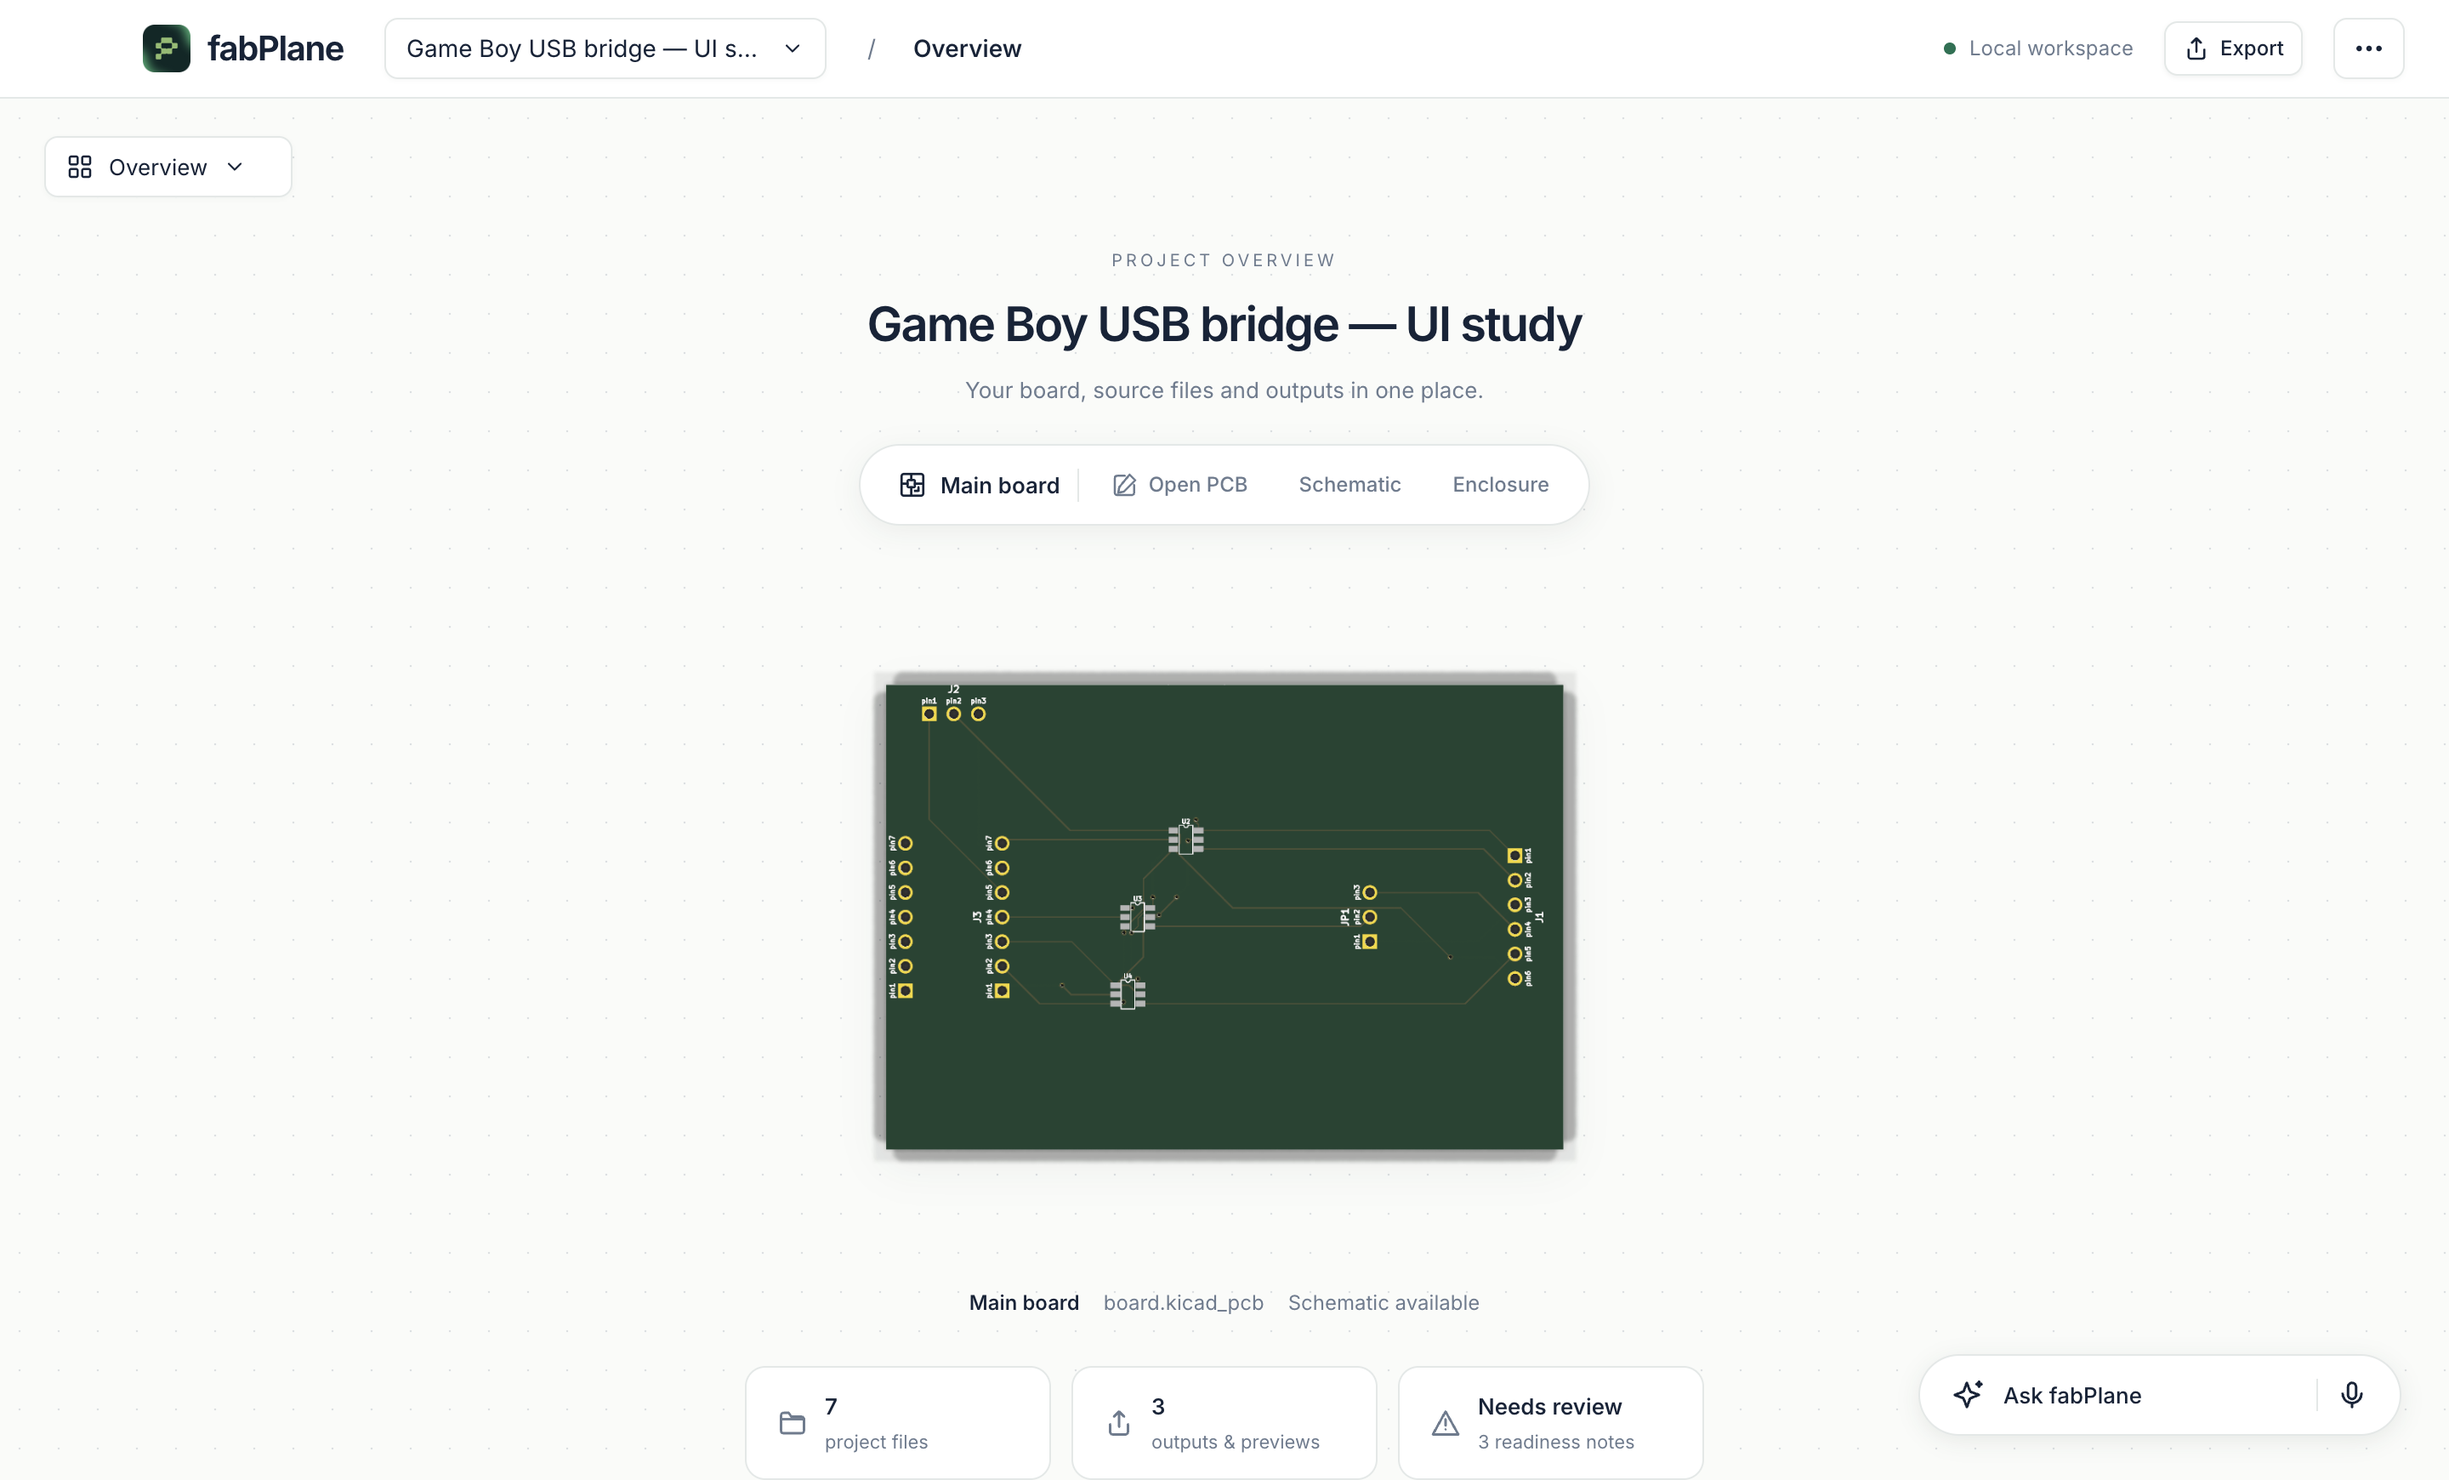
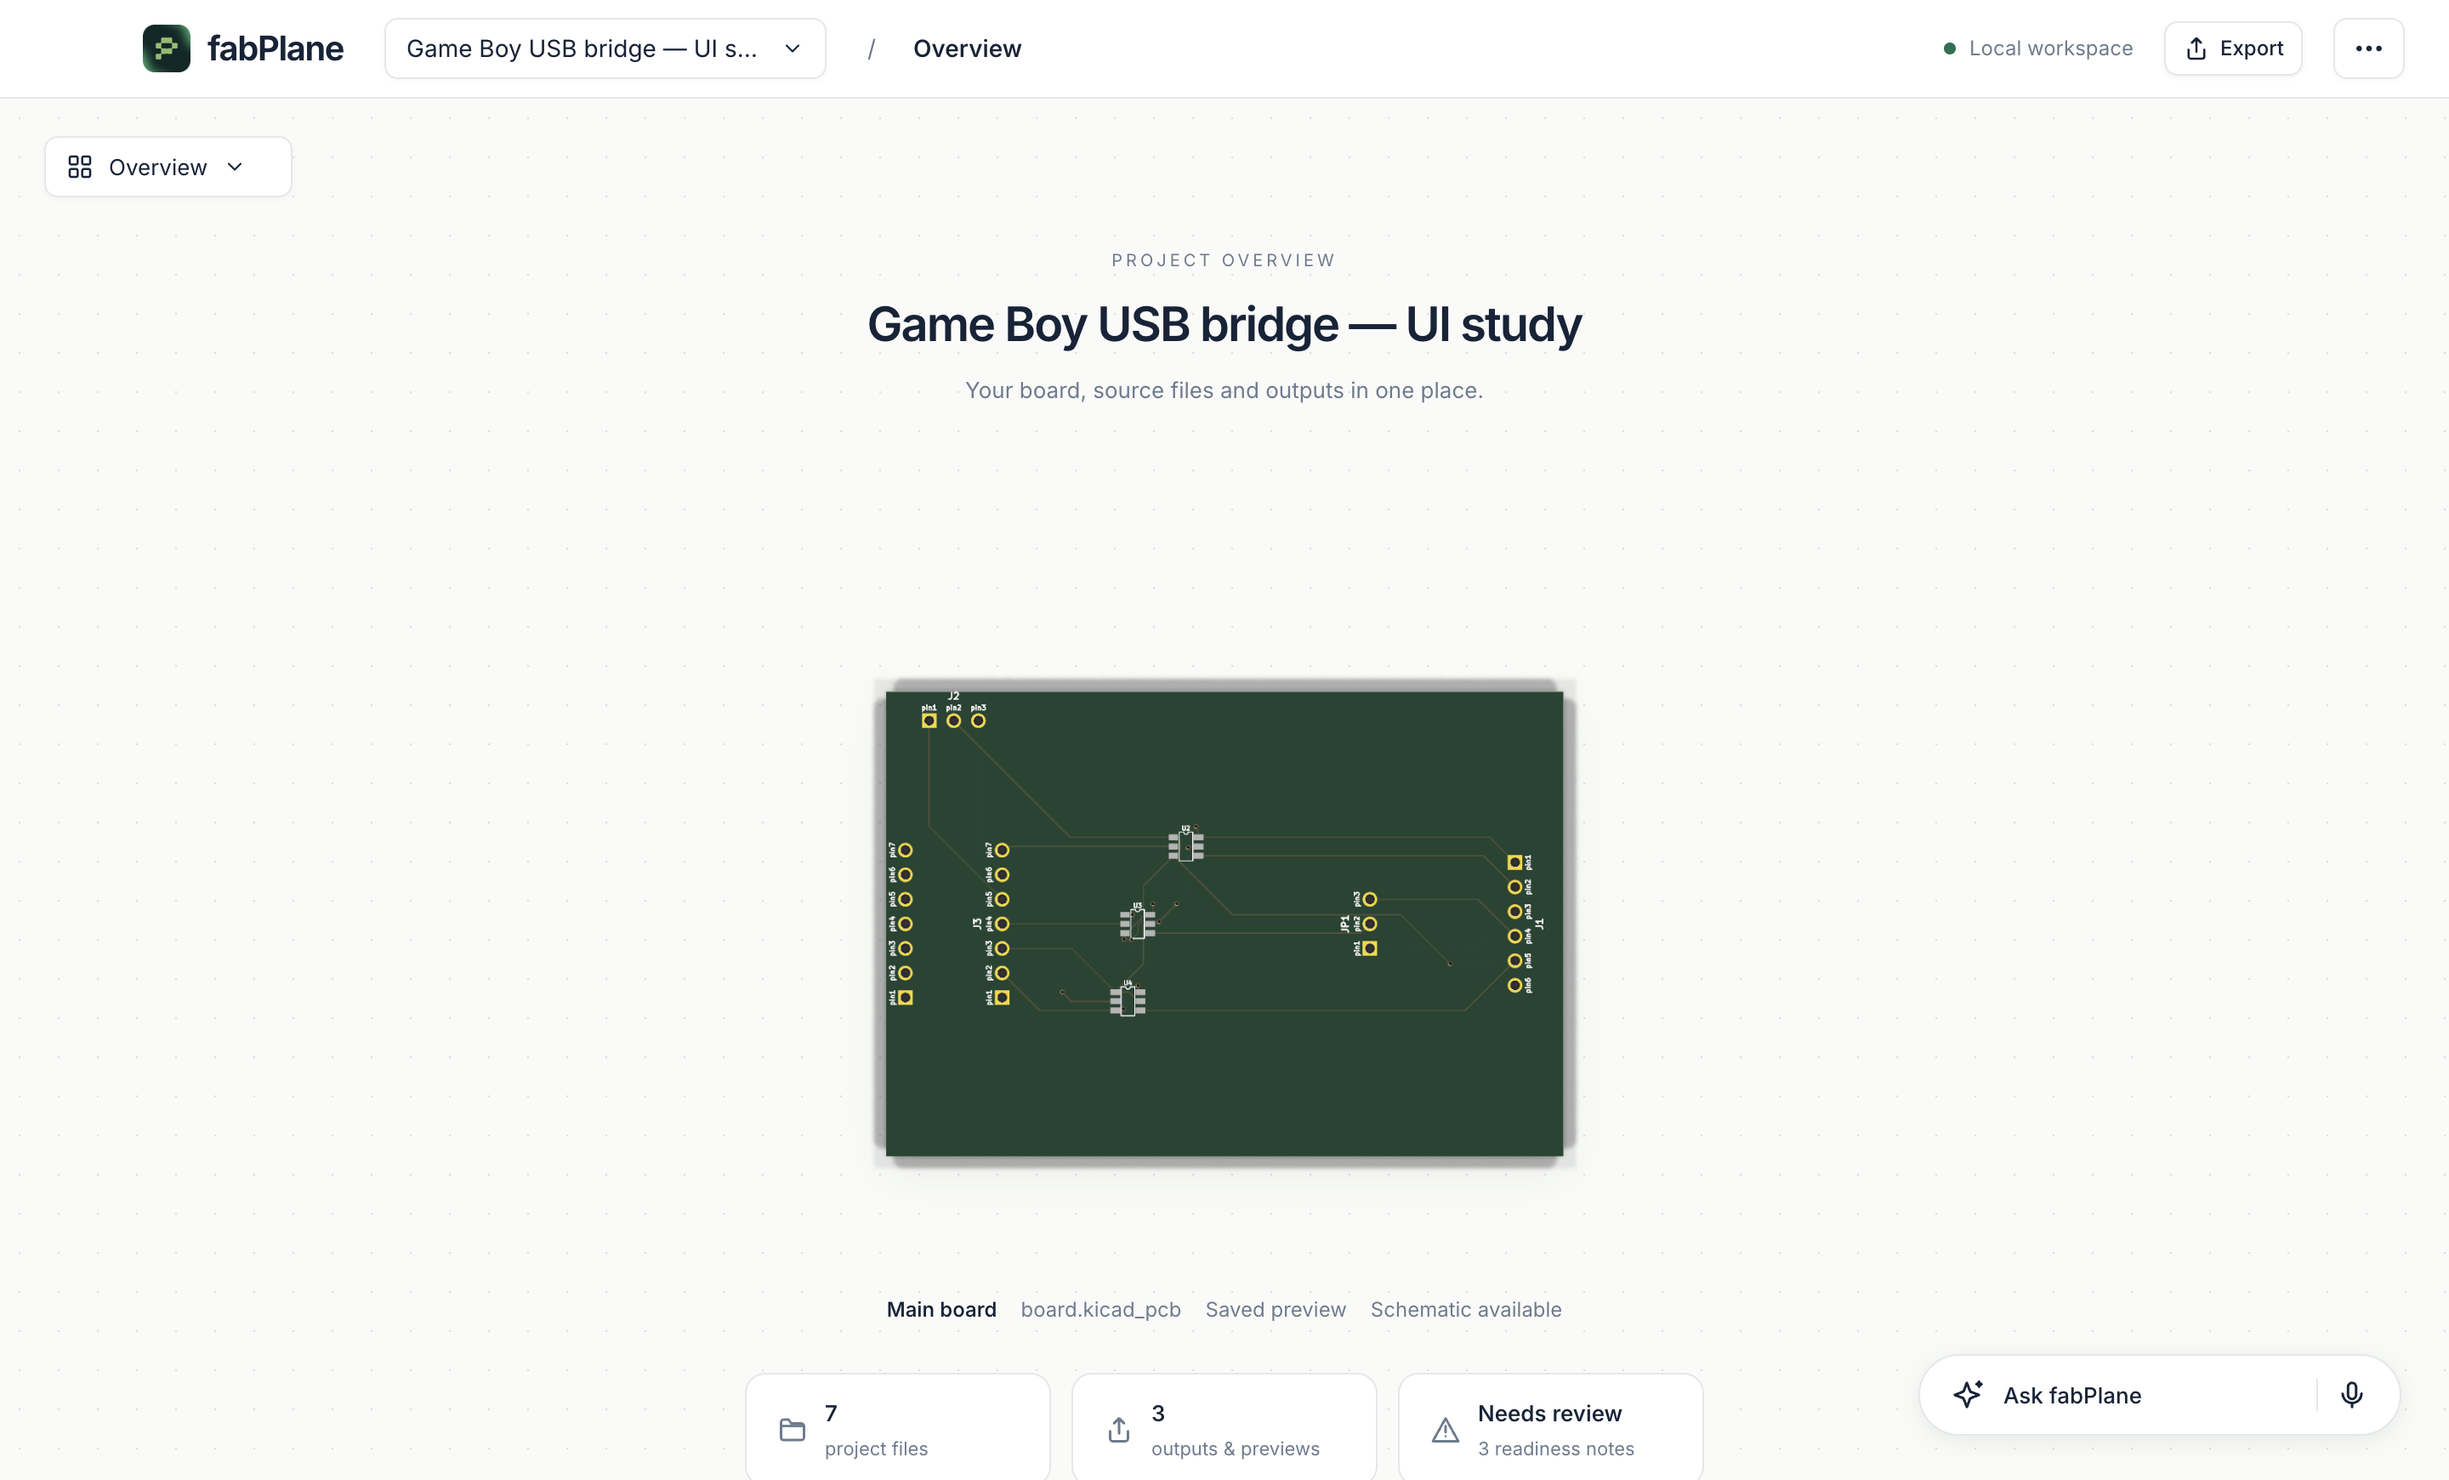
feat: reveal overview tools on selection and validate canvas layouts

diff --git a/packages/ui/src/layout/ProjectOverview.tsx b/packages/ui/src/layout/ProjectOverview.tsx
@@ -25,16 +25,16 @@ export function ProjectOverview() {
   return <div className="fd-project-overview" onKeyDown={(event) => { if (event.key === "Escape") setSelected(false); }}>
     <div className="fd-overview-heading"><span className="fd-overview-eyebrow">PROJECT OVERVIEW</span><h1>{project.data.name}</h1><p>Your board, source files and outputs in one place.</p></div>
     {(pcb || preview) ? <div className="fd-overview-board">
-      <div className="fd-board-context-tools" aria-label="Board actions">
-        <span><Icon name="pcb" width={17} height={17} />{selected ? "Board selected" : "Main board"}</span>
+      {selected && <div className="fd-board-context-tools" aria-label="Board actions">
+        <span><Icon name="pcb" width={17} height={17} />Board selected</span>
         <Button variant="ghost" size="sm" onClick={() => ui().setBoardTab("pcb")}><Icon name="compose" width={16} height={16} />Open PCB</Button>
         <Button variant="ghost" size="sm" onClick={() => ui().setBoardTab("schematic")}>Schematic</Button>
         <Button variant="ghost" size="sm" onClick={() => ui().setWorkspaceArea("mechanical")}>Enclosure</Button>
-      </div>
-      <button className="fd-overview-preview" data-selected={selected} aria-pressed={selected} aria-label="Select main board" onClick={() => setSelected(!selected)} onDoubleClick={() => ui().setBoardTab("pcb")}>
+      </div>}
+      <button className="fd-overview-preview" data-selected={selected} aria-pressed={selected} aria-label="Select main board to show tools" onClick={() => setSelected(!selected)} onDoubleClick={() => ui().setBoardTab("pcb")}>
         {preview ? <ProjectImage projectId={projectId} path={preview.path} alt={`${project.data.name} board preview`} /> : <span><Icon name="pcb" width={64} height={64} /><span>Open the PCB to render its preview</span></span>}
       </button>
-      <div className="fd-overview-board-caption"><strong>Main board</strong><span>{pcb ? "board.kicad_pcb" : "Rendered preview"}</span><span>{schematic ? "Schematic available" : "No schematic source"}</span></div>
+      <div className="fd-overview-board-caption"><strong>Main board</strong><span>{pcb ? "board.kicad_pcb" : "Rendered preview"}</span>{preview && <span>Saved preview</span>}<span>{schematic ? "Schematic available" : "No schematic source"}</span></div>
     </div> : <div className="fd-overview-empty"><Icon name="pcb" width={54} height={54} /><h2>Start with an idea or a sketch</h2><p>Your project is ready. Add a design or describe what you want to build.</p><Button onClick={() => { ui().setAssistantOpen(true); ui().focusComposer(); }}>Describe your board</Button><Button variant="ghost" onClick={() => ui().setSketchOpen(true)}>Add a sketch</Button></div>}
     <div className="fd-overview-facts">
       <button onClick={() => ui().setWorkspaceArea("files")}><Icon name="folder" width={18} height={18} /><strong>{files.length}</strong><span>project files</span></button>

diff --git a/packages/ui/src/settings/SettingsDialog.tsx b/packages/ui/src/settings/SettingsDialog.tsx
@@ -170,7 +170,7 @@ export function SettingsDialog() {
                 hint={
                   doctor.data?.kicad.found
                     ? `using ${doctor.data.kicad.version ?? ""} at ${doctor.data.kicad.path ?? ""}`
-                    : "bundled FabPlane KiCad (leave blank), or set a path to override"
+                    : "bundled fabPlane KiCad (leave blank), or set a path to override"
                 }
               >
                 <Input
@@ -218,7 +218,7 @@ export function SettingsDialog() {
           ) : section === "appearance" ? (
             <fieldset>
               <legend className="text-[13px] font-medium">Theme</legend>
-              <p className="mb-5 mt-1 text-xs leading-5 text-muted">Choose FabPlane's signature palette or a neutral System theme. Your choice is stored on this device.</p>
+              <p className="mb-5 mt-1 text-xs leading-5 text-muted">Choose fabPlane's signature palette or a neutral System theme. Your choice is stored on this device.</p>
               <div className="fd-theme-options">
                 {THEME_IDS.map((id) => <label key={id} className="fd-theme-option">
                   <input type="radio" name="appearance-theme" value={id} checked={themeId === id} onChange={() => {
@@ -238,7 +238,7 @@ export function SettingsDialog() {
               <Row label="Error reporting" hint="Send crash and error reports to Sentry so bugs get fixed. Reports carry no prompts, board files, tokens or project paths. Turning this off applies immediately; turning it back on applies after a restart.">
                 <input type="checkbox" checked={draft.errorReporting} onChange={(e) => update((s) => ({ ...s, errorReporting: e.target.checked }))} />
               </Row>
-              <Row label="Share usage data" hint="Share your sessions with us so we can see where Fabdesk gets stuck and make it better. This includes your conversations and agent activity, past ones too, and can include your prompts and project files. We keep it private. Turning this off stops future sharing; it doesn't remove what was already shared.">
+              <Row label="Share usage data" hint="Share your sessions with us so we can see where fabPlane gets stuck and make it better. This includes your conversations and agent activity, past ones too, and can include your prompts and project files. We keep it private. Turning this off stops future sharing; it doesn't remove what was already shared.">
                 <input type="checkbox" checked={usageArchiveAllowed(draft, privacyScreen ?? true)} onChange={(e) => update((s) => ({ ...s, ...usageArchiveChoice(e.target.checked) }))} />
               </Row>
             </div>

diff --git a/packages/ui/src/layout/canvas-workspace.css b/packages/ui/src/layout/canvas-workspace.css
@@ -98,8 +98,8 @@
 .fd-overview-eyebrow { font-size:10px; letter-spacing:2px; color:var(--fd-muted); }
 .fd-overview-heading h1 { font-size:28px; font-weight:600; letter-spacing:-1px; margin:8px 0; }
 .fd-overview-heading p { color:var(--fd-muted); font-size:13px; }
-.fd-overview-board { max-width:860px; margin:auto; }
-.fd-board-context-tools { display:inline-flex; flex-wrap:wrap; justify-content:center; align-items:center; gap:8px; border:1px solid var(--fd-border); border-radius:25px; background:var(--fd-panel); padding:7px 12px; box-shadow:0 4px 16px #102a2010; }
+.fd-overview-board { max-width:860px; margin:auto; position:relative; padding-top:52px; }
+.fd-board-context-tools { position:absolute; top:0; left:50%; transform:translateX(-50%); width:max-content; max-width:100%; display:inline-flex; flex-wrap:wrap; justify-content:center; align-items:center; gap:8px; border:1px solid var(--fd-border); border-radius:25px; background:var(--fd-panel); padding:7px 12px; box-shadow:0 4px 16px #102a2010; }
 .fd-board-context-tools > span { display:flex; align-items:center; gap:8px; padding:0 10px; font-size:13px; font-weight:550; border-right:1px solid var(--fd-border); }
 .fd-overview-preview { display:flex; justify-content:center; width:100%; padding:30px 20px 18px; border-radius:16px; }
 .fd-overview-preview img { object-fit:contain; max-width:100%; width:auto; max-height:min(46vh,480px); border:0; border-radius:10px; filter:drop-shadow(0 8px 12px #102a2010); }

diff --git a/docs/ui-progress/canvas-workspace/README.md b/docs/ui-progress/canvas-workspace/README.md
@@ -25,4 +25,18 @@ Root typecheck passes. UI tests: 217 pass. Client-core tests: 170 pass; desktop 
 
 ## Next work and limits
 
-This is a navigation and interaction foundation, not completion of the screenshot roadmap. Still required: adaptive first-open overview for explicit multi-board projects; assembly membership and relationships; source revision/freshness tracking and directional reconciliation; native safe resize/replacement; model upload/generation flow; unified output/review workflows; compact/dark/accessibility walkthroughs; all accepted concept states and end-to-end project exercises. Existing views are grouped, not yet fully redesigned. No fabricated synchronization or native editing controls are presented.
+This is a navigation and interaction foundation, not completion of the screenshot roadmap. Still required: adaptive first-open overview for explicit multi-board projects; assembly membership and relationships; source revision/freshness tracking and directional reconciliation; native safe resize/replacement; model upload/generation flow; unified output/review workflows; remaining accessibility walkthroughs; all accepted concept states and end-to-end project exercises. Existing views are grouped, not yet fully redesigned. No fabricated synchronization or native editing controls are presented.
+
+## Subsequent native walkthrough
+
+All 12 existing destinations were opened in the native app: PCB, schematic, 3D/video, routing, artwork, CAD, parts/shopping, renders, changes, checks, files and notes. The assistant stayed closed and no page overflow appeared. This checks navigation and presentation, not successful execution of every backend operation.
+
+The desktop enforces a minimum 960 × 720 window. Canvas and explicitly opened assistant fit that size. Appearance settings switched between fabPlane light and dark. A harmless comment was temporarily added to the isolated PCB SVG then restored: the preview blob URL changed automatically, while the host width and 125% zoom stayed identical.
+
+Overview tools now appear only after board selection. The preview is labeled Saved preview; revision-based freshness remains a follow-up.
+
+![Quiet overview after deselection](overview.png)
+![Overview after board selection](overview-selected.png)
+![Dark canvas](dark-board.png)
+![Fresh-start actions and a retained study draft](fresh-start.png)
+![Minimum desktop window](compact-board.png)
